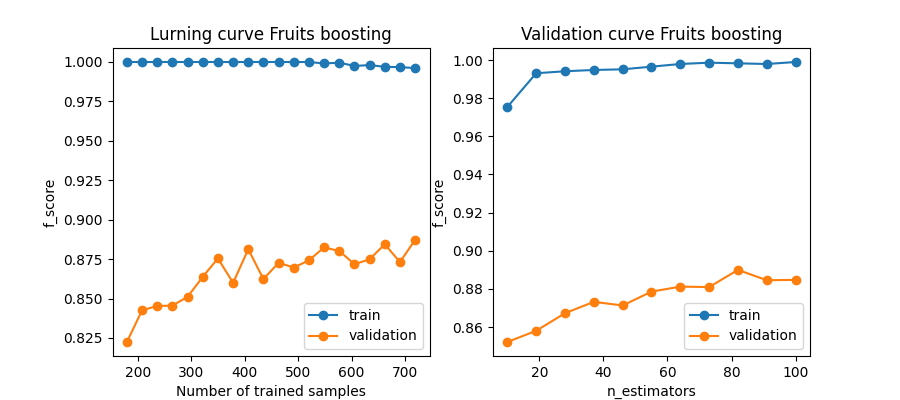
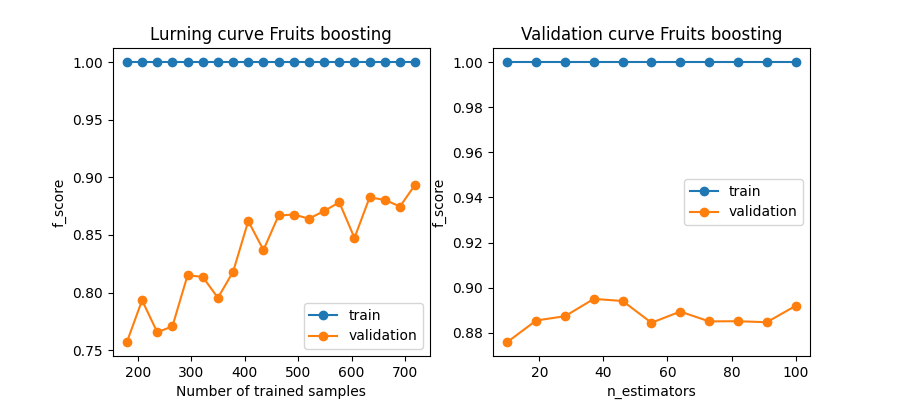
first

diff --git a/HW1.py b/HW1.py
@@ -204,7 +204,7 @@ if fruits_boosting :
     y_test=fruits_test_y
     search_param = {
     "estimator__splitter": ["best", "random"],
-    "estimator__max_depth": [1,2,3,4],
+    "estimator__max_depth": np.linspace(1, 10, 10).astype(int),
     'n_estimators': np.linspace(10,50,6).astype(int),
     'estimator__criterion': ['entropy', 'gini']
 }
@@ -235,7 +235,7 @@ if fruits_boosting :
 
     if second_validation:
         curve_param_name = 'estimator__max_depth'
-        curve_param = np.linspace(1, 5, 5).astype(int)
+        curve_param = np.linspace(1, 10, 10).astype(int)
         verbose = "Fruits boosting"
         title = "Validation curve " + verbose
         if plots_11:
@@ -247,7 +247,7 @@ if fruits_boosting :
                               file_name)
 
         file_name = "fruits_boosting_1.png"
-        plot_12(x_1, y_1, curve_param, title, learn_x, x_2, y_2, curve_param_1, title, x_label, file_name)
+        plot_12(x_1, y_1, curve_param, title, curve_param_name, x_2, y_2, curve_param_1, title, x_label, file_name)
 
 if phones_boosting :
     Classifier=AdaBoostClassifier(DecisionTreeClassifier())
@@ -257,7 +257,7 @@ if phones_boosting :
     y_test = phones_test_y
     search_param = {
     "estimator__splitter": ["best", "random"],
-    "estimator__max_depth": [1,2,3,4],
+    "estimator__max_depth": np.linspace(1, 10, 10).astype(int),
     'n_estimators': np.linspace(10,50,6).astype(int),
     'estimator__criterion': ['entropy', 'gini']
 }
@@ -288,7 +288,7 @@ if phones_boosting :
 
     if second_validation:
         curve_param_name = 'estimator__max_depth'
-        curve_param = np.linspace(1, 5, 5).astype(int)
+        curve_param = np.linspace(1, 10, 10).astype(int)
         verbose = "Phones boosting"
         title = "Validation curve " + verbose
         if plots_11:
@@ -300,7 +300,7 @@ if phones_boosting :
                               file_name)
 
         file_name = "phones_boosting_1.png"
-        plot_12(x_1, y_1, curve_param, title, learn_x, x_2, y_2, curve_param_1, title_1, x_label_1, file_name)
+        plot_12(x_1, y_1, curve_param, title, curve_param_name, x_2, y_2, curve_param_1, title_1, x_label_1, file_name)
 
 
 if fruits_KNN :
